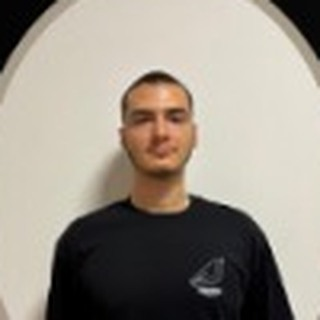
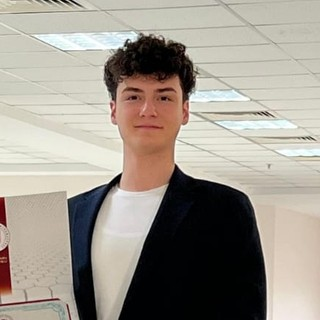
Refresh team photos, add Berkay's portrait, add 2 new sponsors
Photos (face-cropped, 320x320):
- Mustafa Akgun, Mert Huseyin Caglayan, Enes Kara, Betul Soyer: replaced
  with new supplied photos
- Battal Berkay Aktas: real portrait added for the first time, monogram
  placeholder removed (EN + TR)

Sponsors (homepage + sponsors page, EN + TR):
- Girisimci Isadamlari Vakfi Konya (GIV) logo added
- Kapsul Teknoloji Platformu logo added — extracted from a dark banner
  source and recolored for the light sponsor tile
- Lede copy and search indexes updated with the new sponsor names

diff --git a/tr/sponsors.html b/tr/sponsors.html
@@ -59,11 +59,14 @@
       <div class="section-head">
         <p class="kicker">SUAS 2026 sezonu</p>
         <h2 id="current-h">Sponsorlarımız</h2>
-        <p class="lede">TÜBİTAK projeyi şimdiden destekliyor; kurucu sponsor yerleri açık.
-        Şimdi eklenen logolar bu Eylül'deki SUAS 2026'ya kadar tüm kampanya boyunca kalır.</p>
+        <p class="lede">TÜBİTAK, Girişimci İşadamları Vakfı Konya ve Kapsül Teknoloji Platformu
+        projeyi şimdiden destekliyor; kurucu sponsor yerleri açık. Şimdi eklenen logolar bu
+        Eylül'deki SUAS 2026'ya kadar tüm kampanya boyunca kalır.</p>
       </div>
       <div class="logo-row">
         <img src="../assets/img/unnamed.jpg" width="320" height="140" alt="TÜBİTAK — proje destekçisi">
+        <img src="../assets/img/giv-vakfi.png" width="320" height="140" alt="Girişimci İşadamları Vakfı Konya — proje destekçisi">
+        <img src="../assets/img/kapsul-x.png" width="320" height="140" alt="Kapsül Teknoloji Platformu — proje destekçisi">
         <img src="../assets/img/sponsor-gold.svg" width="320" height="140" alt="Boş sponsor alanı">
         <img src="../assets/img/sponsor-silver.svg" width="320" height="140" alt="Boş sponsor alanı">
         <img src="../assets/img/sponsor-bronze.svg" width="320" height="140" alt="Boş sponsor alanı">

diff --git a/sponsors.html b/sponsors.html
@@ -59,11 +59,14 @@
       <div class="section-head">
         <p class="kicker">SUAS 2026 season</p>
         <h2 id="current-h">Our sponsors</h2>
-        <p class="lede">TÜBİTAK already supports the project, and founding sponsor slots are open. Logos placed
-        now stay for the entire campaign — through SUAS 2026 this September.</p>
+        <p class="lede">TÜBİTAK, Girişimci İşadamları Vakfı Konya and Kapsül Teknoloji Platformu
+        already support the project, and founding sponsor slots are open. Logos placed now stay
+        for the entire campaign — through SUAS 2026 this September.</p>
       </div>
       <div class="logo-row">
         <img src="assets/img/unnamed.jpg" width="320" height="140" alt="TÜBİTAK — project supporter">
+        <img src="assets/img/giv-vakfi.png" width="320" height="140" alt="Girişimci İşadamları Vakfı Konya — project supporter">
+        <img src="assets/img/kapsul-x.png" width="320" height="140" alt="Kapsül Teknoloji Platformu — project supporter">
         <img src="assets/img/sponsor-gold.svg" width="320" height="140" alt="Open sponsor slot">
         <img src="assets/img/sponsor-silver.svg" width="320" height="140" alt="Open sponsor slot">
         <img src="assets/img/sponsor-bronze.svg" width="320" height="140" alt="Open sponsor slot">

diff --git a/tr/index.html b/tr/index.html
@@ -182,11 +182,14 @@
       <div class="section-head">
         <p class="kicker">Sponsorlar</p>
         <h2 id="sponsors-strip-h">Destek</h2>
-        <p class="lede">Proje TÜBİTAK tarafından destekleniyor. SUAS 2026 kampanyası için
-        sponsor yerleri Eylül'deki yarışmaya kadar açık.</p>
+        <p class="lede">Proje TÜBİTAK, Girişimci İşadamları Vakfı Konya ve Kapsül Teknoloji
+        Platformu tarafından destekleniyor. SUAS 2026 kampanyası için sponsor yerleri
+        Eylül'deki yarışmaya kadar açık.</p>
       </div>
       <div class="logo-row">
         <img src="../assets/img/unnamed.jpg" width="320" height="140" alt="TÜBİTAK — proje destekçisi">
+        <img src="../assets/img/giv-vakfi.png" width="320" height="140" alt="Girişimci İşadamları Vakfı Konya — proje destekçisi">
+        <img src="../assets/img/kapsul-x.png" width="320" height="140" alt="Kapsül Teknoloji Platformu — proje destekçisi">
         <img src="../assets/img/sponsor-gold.svg" width="320" height="140" alt="Boş sponsor alanı">
         <img src="../assets/img/sponsor-silver.svg" width="320" height="140" alt="Boş sponsor alanı">
         <img src="../assets/img/sponsor-bronze.svg" width="320" height="140" alt="Boş sponsor alanı">

diff --git a/index.html b/index.html
@@ -183,11 +183,14 @@
       <div class="section-head">
         <p class="kicker">Sponsors</p>
         <h2 id="sponsors-strip-h">Support</h2>
-        <p class="lede">The project is supported by TÜBİTAK. Sponsor slots for the SUAS 2026
-        campaign are open until the competition in September.</p>
+        <p class="lede">The project is supported by TÜBİTAK, Girişimci İşadamları Vakfı Konya
+        and Kapsül Teknoloji Platformu. Sponsor slots for the SUAS 2026 campaign are open until
+        the competition in September.</p>
       </div>
       <div class="logo-row">
         <img src="assets/img/unnamed.jpg" width="320" height="140" alt="TÜBİTAK — project supporter">
+        <img src="assets/img/giv-vakfi.png" width="320" height="140" alt="Girişimci İşadamları Vakfı Konya — project supporter">
+        <img src="assets/img/kapsul-x.png" width="320" height="140" alt="Kapsül Teknoloji Platformu — project supporter">
         <img src="assets/img/sponsor-gold.svg" width="320" height="140" alt="Open sponsor slot">
         <img src="assets/img/sponsor-silver.svg" width="320" height="140" alt="Open sponsor slot">
         <img src="assets/img/sponsor-bronze.svg" width="320" height="140" alt="Open sponsor slot">

diff --git a/assets/js/search-index.js b/assets/js/search-index.js
@@ -70,7 +70,7 @@ window.SEARCH_INDEX = [
 
   /* ---- Sponsors ---- */
   { page: "Sponsors", url: "sponsors.html#current", title: "Our sponsors — SUAS 2026",
-    text: "sponsors current logos TÜBİTAK founding partners support" },
+    text: "sponsors current logos TÜBİTAK Girişimci İşadamları Vakfı Konya GİV Kapsül Teknoloji Platformu founding partners support" },
   { page: "Sponsors", url: "sponsors.html#inkind", title: "In-kind support",
     text: "in-kind materials carbon composites CNC machining 3D printing electronics batteries flight field travel logistics expertise donation" },
   { page: "Sponsors", url: "sponsors.html#contact-cta", title: "Become a sponsor",

diff --git a/assets/js/search-index-tr.js b/assets/js/search-index-tr.js
@@ -69,7 +69,7 @@ window.SEARCH_INDEX = [
 
   /* ---- Sponsorlar ---- */
   { page: "Sponsorlar", url: "sponsors.html#current", title: "Sponsorlarımız — SUAS 2026",
-    text: "sponsorlar logolar TÜBİTAK kurucu partnerler destek" },
+    text: "sponsorlar logolar TÜBİTAK Girişimci İşadamları Vakfı Konya GİV Kapsül Teknoloji Platformu kurucu partnerler destek" },
   { page: "Sponsorlar", url: "sponsors.html#inkind", title: "Ayni destek",
     text: "ayni destek malzeme karbon kompozit CNC imalat 3B baskı elektronik batarya uçuş sahası seyahat lojistik uzmanlık bağış" },
   { page: "Sponsorlar", url: "sponsors.html#contact-cta", title: "Sponsor olun",

diff --git a/team.html b/team.html
@@ -140,7 +140,7 @@
           </span>
         </div>
         <div class="card member-card">
-          <span class="member-avatar" aria-hidden="true">BBA</span>
+          <img class="member-avatar" src="assets/img/team/berkay-aktas.jpg" alt="Portrait of Battal Berkay Aktaş" width="84" height="84" loading="lazy">
           <span>
             <span class="member-name">Battal Berkay Aktaş</span>
             <span class="member-role">Mechanical</span>

diff --git a/tr/team.html b/tr/team.html
@@ -139,7 +139,7 @@
           </span>
         </div>
         <div class="card member-card">
-          <span class="member-avatar" aria-hidden="true">BBA</span>
+          <img class="member-avatar" src="../assets/img/team/berkay-aktas.jpg" alt="Battal Berkay Aktaş portresi" width="84" height="84" loading="lazy">
           <span>
             <span class="member-name">Battal Berkay Aktaş</span>
             <span class="member-role">Mekanik</span>
